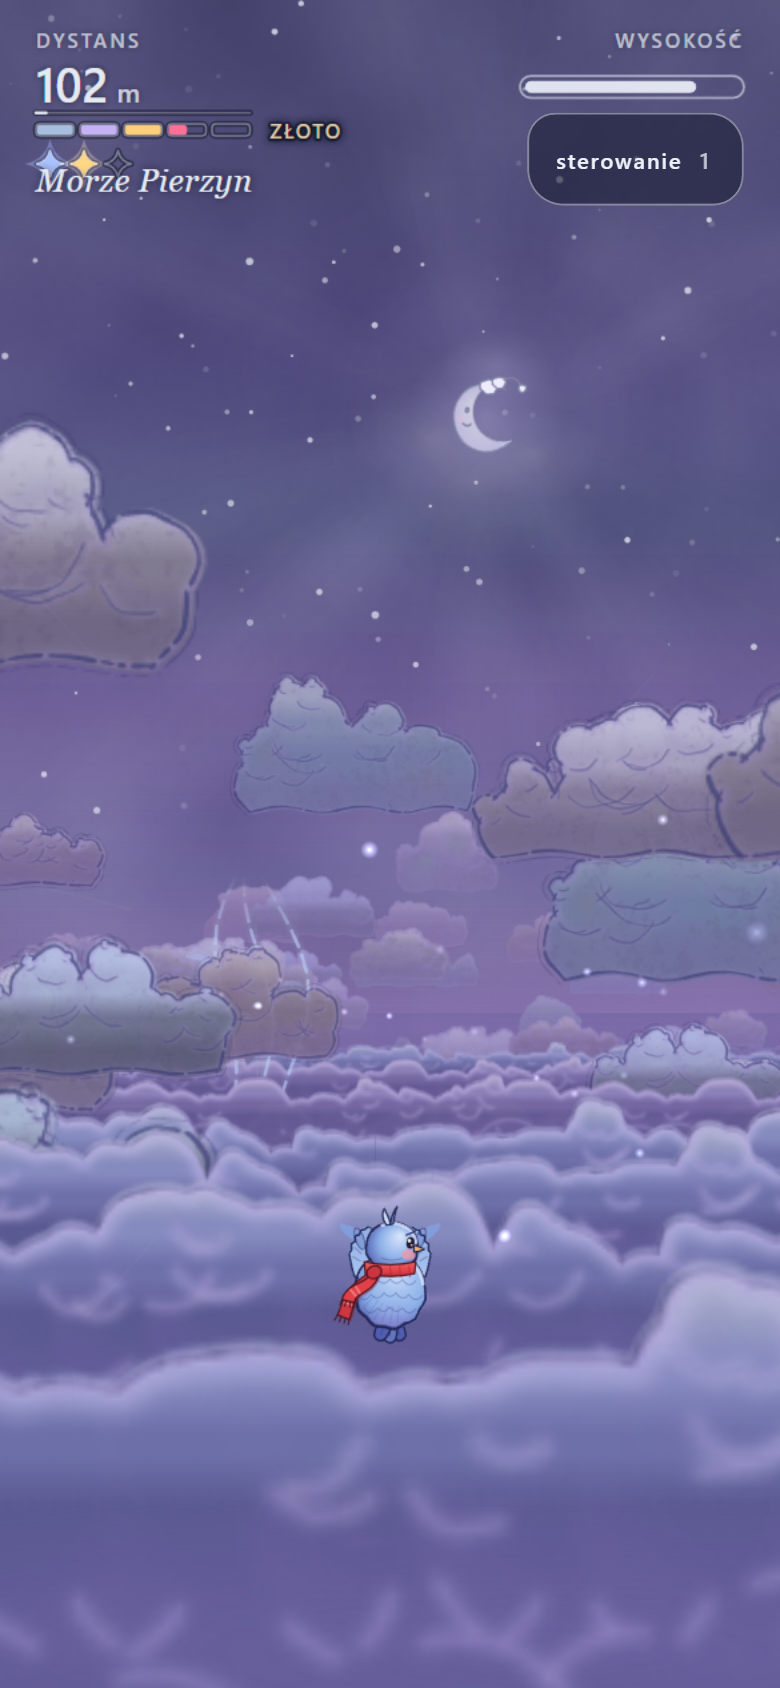
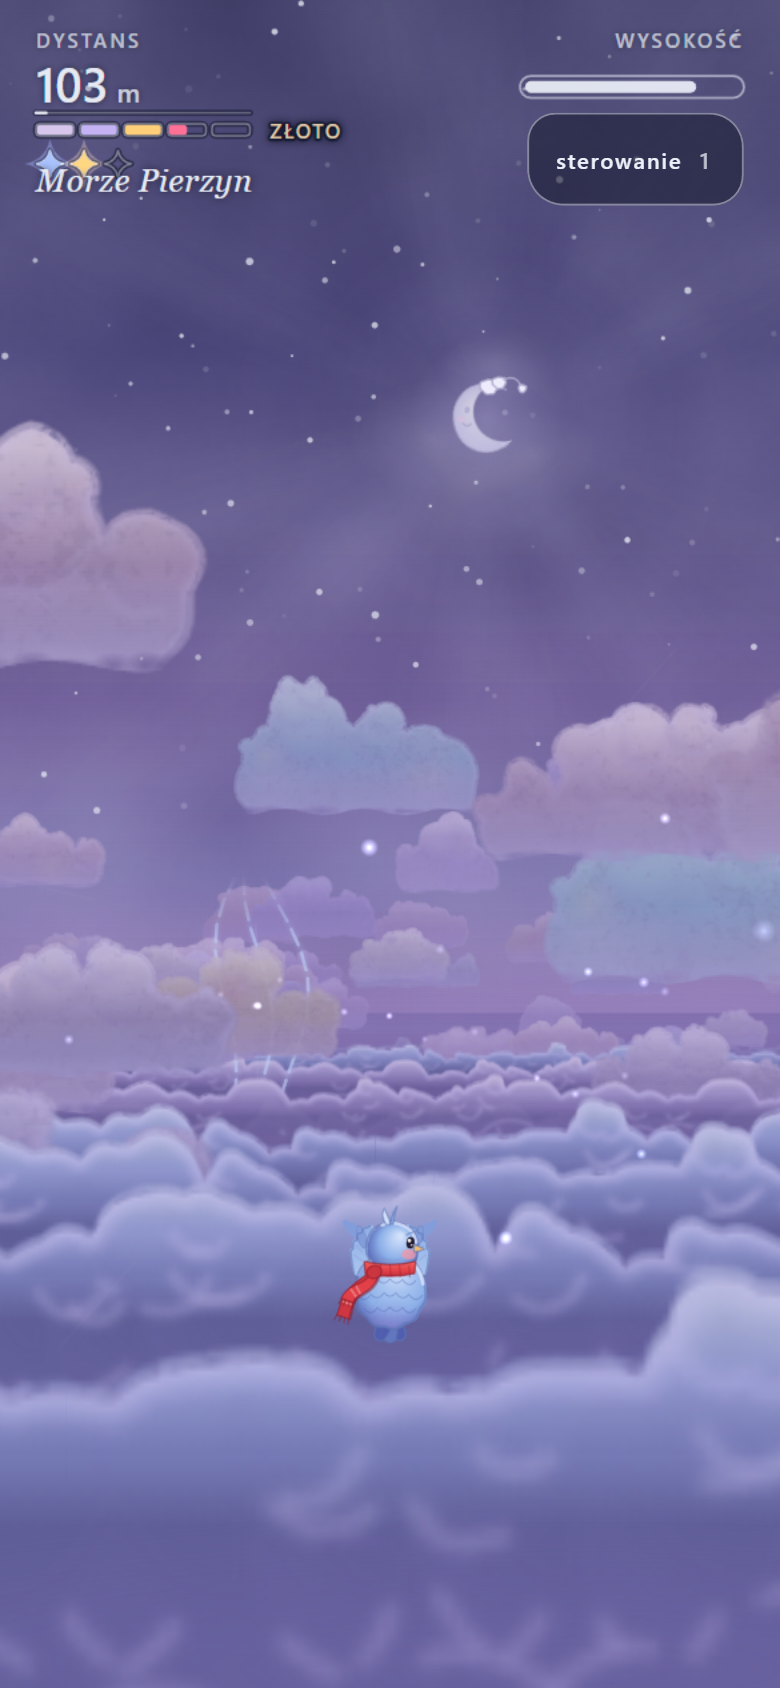
Z17: nocne światło spodu chmur w barwie chmury (nie blednie); log pierwszego pełnego preflightu (Z3b pod obciążeniem, osobno zielony)

diff --git a/index.html b/index.html
@@ -829,12 +829,12 @@ Słońce obiecało wrócić rano.</p>
     if (S.far) { var xf = S.far.c.getContext('2d'); xf.setTransform(1, 0, 0, 1, 0, 0); xf.clearRect(0, 0, S.far.w, S.far.h); xf.drawImage(S.c, 0, 0, S.far.w, S.far.h); }
   }
   /* Z17 (brak 2 z Z15): nocą duża bliska chmura miała ciężki, płaski, jednolity spód. Dwie warstwy przy malowaniu (nie co klatkę):
-     odbite światło morza chmur rozjaśnia dolną część (ton jasnego brzegu, nie biel), a podstawa dostaje miękkie, płytkie wcięcia (płaska, lekko falująca, sekcja 2). */
+     odbite światło morza chmur rozjaśnia dolną część (pół jasnego brzegu, pół barwy chmury: nie biel, nie gasi koloru), a podstawa dostaje miękkie, płytkie wcięcia (płaska, lekko falująca, sekcja 2). */
   var SPOD = { H: 0.38, A: 0.5, WCIECIE: 0.8 };
   function spodNocny(x, S, g, C, nb) {
     var gh = Math.max(16, -g.top * SPOD.H), lg, r = R32((g.sd || 7) * 3 + 11), xx, rw, rh, rg;
     x.save(); x.setTransform(S.spr, 0, 0, S.spr, S.ox, S.oy);
-    lg = x.createLinearGradient(0, -gh, 0, 6); lg.addColorStop(0, rgba(C.rim, 0)); lg.addColorStop(1, rgba(mixc(C.rim, PAL.f0 || C.rim, 0.35), SPOD.A * nb));
+    lg = x.createLinearGradient(0, -gh, 0, 6); lg.addColorStop(0, rgba(C.rim, 0)); lg.addColorStop(1, rgba(mixc(C.rim, C.tones[1], 0.5), SPOD.A * nb));   /* światło w barwie tej chmury (nie blednie: kolor nocą zostaje) */
     x.globalCompositeOperation = 'source-atop'; x.fillStyle = lg; x.fillRect(g.minx - 30, -gh, g.maxx - g.minx + 60, gh + 30);
     x.globalCompositeOperation = 'destination-out';
     for (xx = g.minx + 6; xx < g.maxx; xx += rw * 1.3) {
